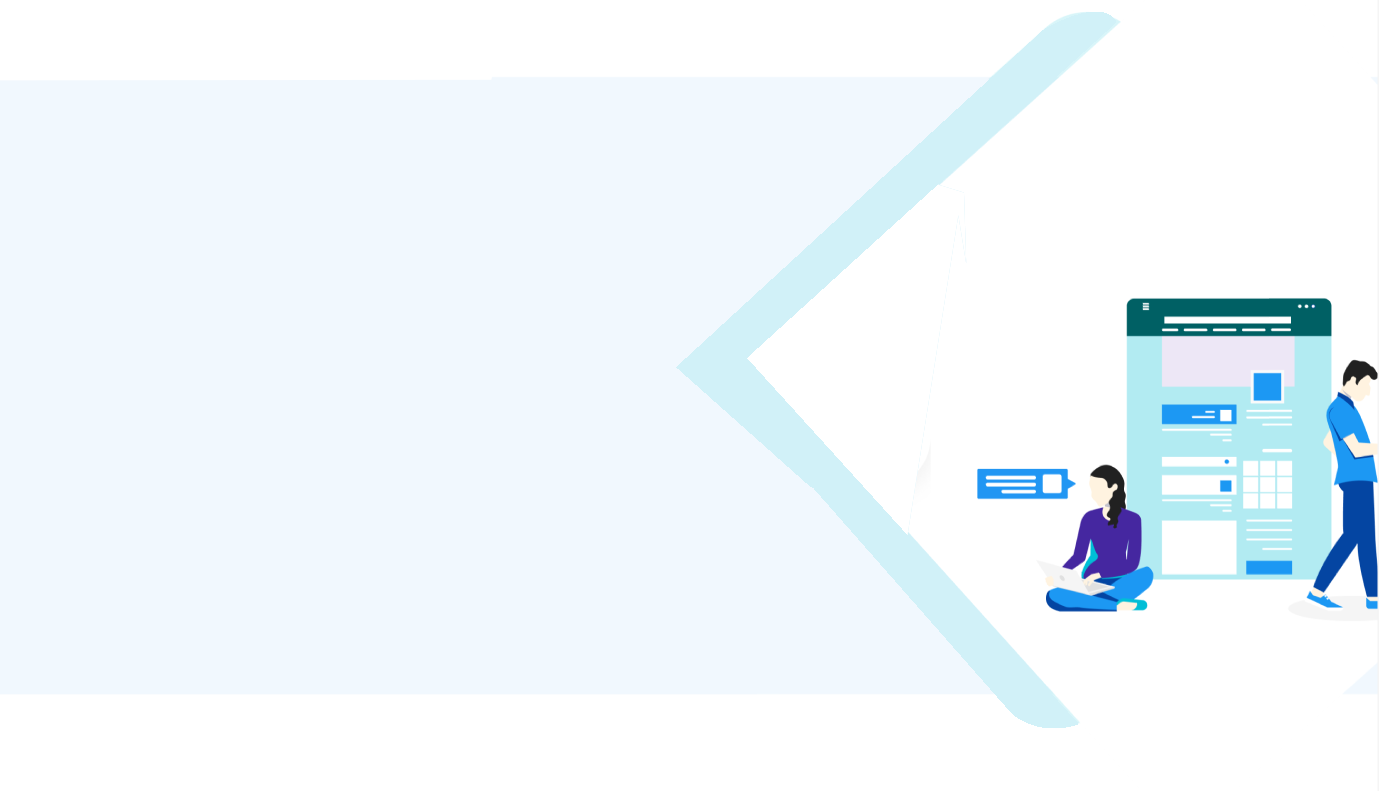
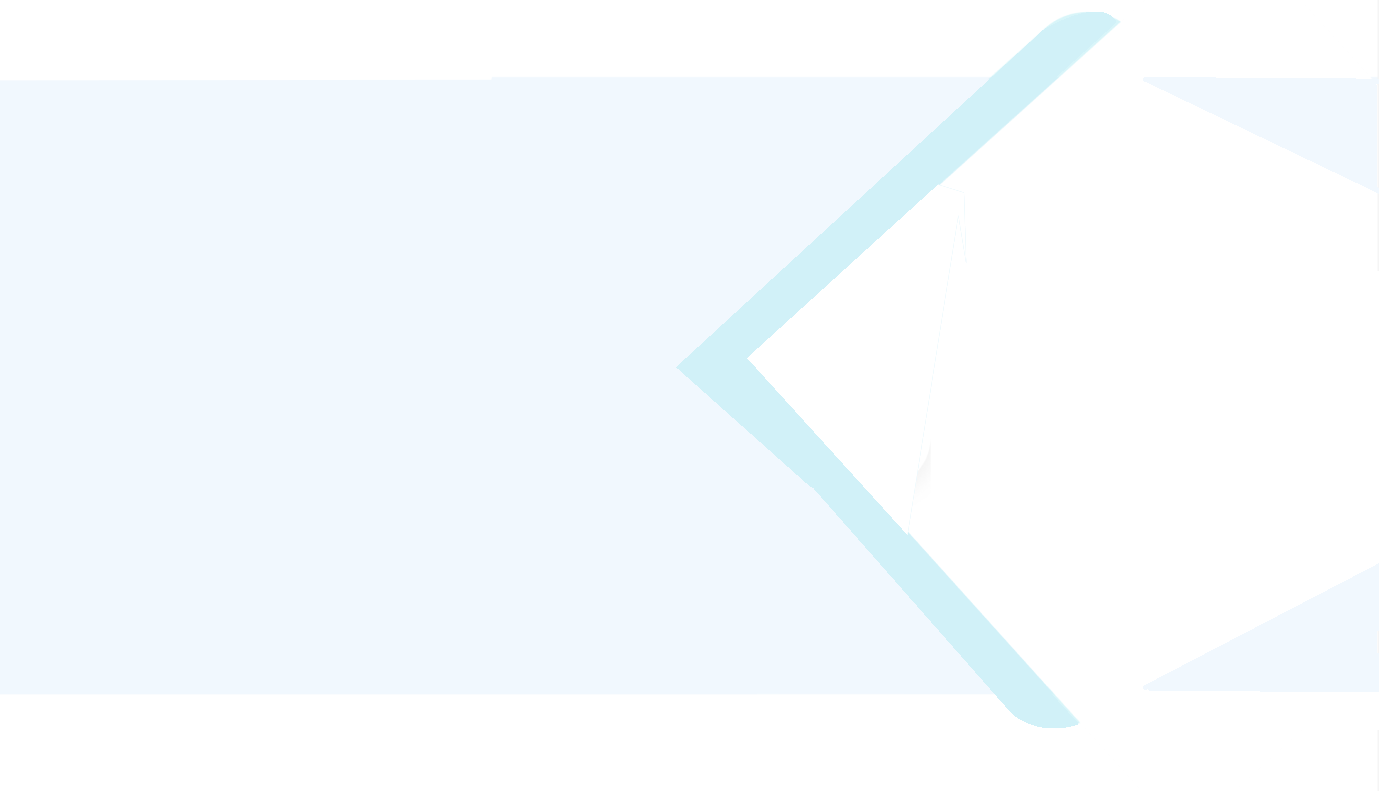
Clients Testimonials added

Changed region(s): [[0.686, 0.3641, 1.0, 0.7889]]

diff --git a/style.css b/style.css
@@ -325,7 +325,7 @@ nav {
 
 
 
-
+/* Our Services Section */
 .out_service_section {
     background: url(./assets/ourservice.png);
     background-repeat: no-repeat;
@@ -333,9 +333,11 @@ nav {
     background-position: left -40px;
     /* height: 100vh; */
     padding: 150px 0;
+
     .top_container {
         padding: 60px 160px;
         margin-bottom: 60px;
+
         h1 {
             font-size: 52px;
             font-weight: bold;
@@ -365,7 +367,7 @@ nav {
     }
 
     .card_container {
-       
+
 
         .card_item {
             margin-bottom: 18px;
@@ -389,20 +391,21 @@ nav {
                 overflow: hidden;
                 border-radius: 28px;
                 box-shadow: 0 0 20px 1px #B2EBF2;
-    
+
                 img {
                     width: 100%;
                     object-fit: cover;
                 }
             }
-            .card_content{
+
+            .card_content {
                 display: flex;
                 align-items: center;
                 justify-content: space-evenly;
                 flex-direction: column;
                 /* gap: 10px; */
 
-                h1{
+                h1 {
                     font-size: 24px;
                     font-weight: 500;
                     line-height: 38px;
@@ -428,29 +431,31 @@ nav {
                     border: 1px solid #00BCD4;
                     border-radius: 6px;
                     transition: background-color .3s ease;
-                    a{
+
+                    a {
                         text-decoration: none;
                         transition: color .3s ease;
                     }
 
-                    &:hover{
-                        background-color:  #00BCD4;
-                        a{
+                    &:hover {
+                        background-color: #00BCD4;
+
+                        a {
                             color: #fff;
                         }
                     }
                 }
             }
 
-            &:hover{
+            &:hover {
                 transform: translateY(-20px);
             }
         }
 
-        
+
     }
 
-    .arrow_container{
+    .arrow_container {
         position: absolute;
         right: 250px;
         bottom: -60px;
@@ -461,7 +466,7 @@ nav {
         width: 100px;
         height: 56px;
 
-        span{
+        span {
             cursor: pointer;
             width: 42px;
             height: 42px;
@@ -470,45 +475,140 @@ nav {
             display: flex;
             justify-content: center;
             align-items: center;
-            box-shadow:  0 0 12px 5px rgb(226, 226, 226);
+            box-shadow: 0 0 12px 5px rgb(226, 226, 226);
             transition: transform .3s ease;
-            i{
+
+            i {
                 color: #0d47a1;
                 font-size: 28px;
                 /* font-weight: 800; */
             }
-            &:hover{
+
+            &:hover {
                 transform: translateY(-4px);
             }
         }
 
-      
+
     }
 }
 
 
 
-
-.our_values_section{
-    .values_container{
+/* Our values Section */
+.our_values_section {
+    .values_container {
         padding: 150px 0;
-        .value_item{
+
+        .value_item {
             margin-bottom: 36px;
-            h1{
+
+            h1 {
                 font-size: 28px;
                 line-height: 42px;
                 font-weight: 500;
             }
-            p{
+
+            p {
                 font-size: 18px;
                 line-height: 24px;
                 color: rgb(152, 152, 152);
-    
+
             }
         }
-      
+
     }
 }
+
+
+/* Client Testimonials section */
+.client_testimonials_section {
+    height: 870px;
+    background: url(./assets/ostad\ project2\ extrac.png);
+    background-size: cover;
+    background-repeat: no-repeat;
+    
+    .testimonial_container {
+        padding: 120px 0;
+        h1 {
+            color: #0d47a1;
+            font-size: 52px;
+            font-weight: bold;
+            line-height: 78px;
+        }
+        .testimonial_card_container{
+            margin-top: 48px;
+            display: flex;
+            align-items: center;
+            gap: 20px;
+            .m-card{
+
+
+                display: flex;
+                flex-direction: column;
+                justify-content: space-between;
+                background-color: #fff;
+                margin-bottom: 18px;
+                padding:36px 16px 16px 16px;
+                width: 248px;
+                height: 242px;
+                border-radius: 48px 48px 48px 0;
+                box-shadow: 0 0 16px 3px rgb(214, 245, 245);
+
+                p{
+                    font-size: 14px;
+                }
+
+                i{
+                    font-size: 28px;
+                    color: #0d47a1;
+
+                }
+            }
+
+            .profile_container{
+                margin-bottom: 16px;
+                display: flex;
+                gap: 22px;
+                align-items: center;
+                .pimg_container{
+                    width: 60px;
+                    height: 60px;
+                    border-radius: 50%;
+                    overflow: hidden;
+                    border: 4px solid #fff;
+                    box-shadow: 0 0 5px 1px rgb(198, 232, 228);
+                    img{
+                        width: 100%;
+                        object-fit: cover;
+                    }
+                }
+
+                .pname_container{
+                    /* padding: 8px 0; */
+                    display: flex;
+                    flex-direction: column;
+                    /* gap: 3px; */
+
+                    h2{
+                        font-size: 18px;
+                        font-weight: 500;
+
+                    }
+
+                    h3{
+                        font-style: italic;
+                        font-weight: normal;
+                        font-size: 14px;
+                    }
+                }
+            }
+        }
+
+
+    }
+}
+
 
 @media(max-width:992px) {
     nav {
@@ -544,18 +644,18 @@ nav {
         }
     }
 
-    .out_service_section{
-        .top_container{
+    .out_service_section {
+        .top_container {
             padding: 8px;
         }
 
-        .card_container{
-            .card_item{
+        .card_container {
+            .card_item {
                 flex-grow: 0.5;
             }
         }
 
-        .arrow_container{
+        .arrow_container {
             display: none;
         }
     }

diff --git a/index.html b/index.html
@@ -307,6 +307,102 @@
         </div>
     </section>
 
+
+    <section class="client_testimonials_section">
+        <div class="container">
+            <div class="testimonial_container">
+                <h1>Client Testimonials</h1>
+                <div class="row ">
+                    <div class="col-md-7">
+                        <div class="testimonial_card_container">
+                            <div class="row">
+                                <div class="col-md-4">
+                                    <div class="m-card">
+                                        <p>
+                                            Lorem ipsum dolor, sit amet consectetur adipisicing elit. Recusandae quae
+                                            architecto facilis modi!
+                                        </p>
+                                        <div class="rating_container">
+                                            <i class="bi bi-star-fill"></i>
+                                            <i class="bi bi-star-fill"></i>
+                                            <i class="bi bi-star-fill"></i>
+                                            <i class="bi bi-star-fill"></i>
+                                            <i class="bi bi-star-fill"></i>
+                                        </div>
+                                    </div>
+                                    <div class="profile_container">
+                                        <div class="pimg_container">
+                                            <img src="./assets/team_1.png" alt="">
+                                        </div>
+
+                                        <div class="pname_container">
+                                            <h2>Jane Doe</h2>
+                                            <h3>Chief Digital Officer</h3>
+                                        </div>
+                                    </div>
+                                </div>
+                                <div class="col-md-4">
+                                    <div class="m-card">
+                                        <p>
+                                            Lorem ipsum dolor, sit amet consectetur adipisicing elit. Recusandae quae
+                                            architecto facilis modi!
+                                        </p>
+                                        <div class="rating_container">
+                                            <i class="bi bi-star-fill"></i>
+                                            <i class="bi bi-star-fill"></i>
+                                            <i class="bi bi-star-fill"></i>
+                                            <i class="bi bi-star-fill"></i>
+                                            <i class="bi bi-star-fill"></i>
+                                        </div>
+                                    </div>
+                                    <div class="profile_container">
+                                        <div class="pimg_container">
+                                            <img src="./assets/team_2.png" alt="">
+                                        </div>
+
+                                        <div class="pname_container">
+                                            <h2>Jane Doe</h2>
+                                            <h3>Chief Digital Officer</h3>
+                                        </div>
+                                    </div>
+                                </div>
+                                <div class="col-md-4">
+                                    <div class="m-card">
+                                        <p>
+                                            Lorem ipsum dolor, sit amet consectetur adipisicing elit. Recusandae quae
+                                            architecto facilis modi!
+                                        </p>
+                                        <div class="rating_container">
+                                            <i class="bi bi-star-fill"></i>
+                                            <i class="bi bi-star-fill"></i>
+                                            <i class="bi bi-star-fill"></i>
+                                            <i class="bi bi-star-fill"></i>
+                                            <i class="bi bi-star-fill"></i>
+                                        </div>
+                                    </div>
+                                    <div class="profile_container">
+                                        <div class="pimg_container">
+                                            <img src="./assets/team_3.png" alt="">
+                                        </div>
+
+                                        <div class="pname_container">
+                                            <h2>Jane Doe</h2>
+                                            <h3>Chief Digital Officer</h3>
+                                        </div>
+                                    </div>
+                                </div>
+                            </div>
+                        </div>
+                    </div>
+                    <div class="col-md-5">
+                        <img class="img-fluid" src="./assets/client-tesitimonial-right-Photoroom.png" alt="">
+                    </div>
+                </div>
+            </div>
+        </div>
+    </section>
+
+
     <script src="https://cdn.jsdelivr.net/npm/@popperjs/core@2.11.8/dist/umd/popper.min.js"
         integrity="sha384-I7E8VVD/ismYTF4hNIPjVp/Zjvgyol6VFvRkX/vR+Vc4jQkC+hVqc2pM8ODewa9r"
         crossorigin="anonymous"></script>
